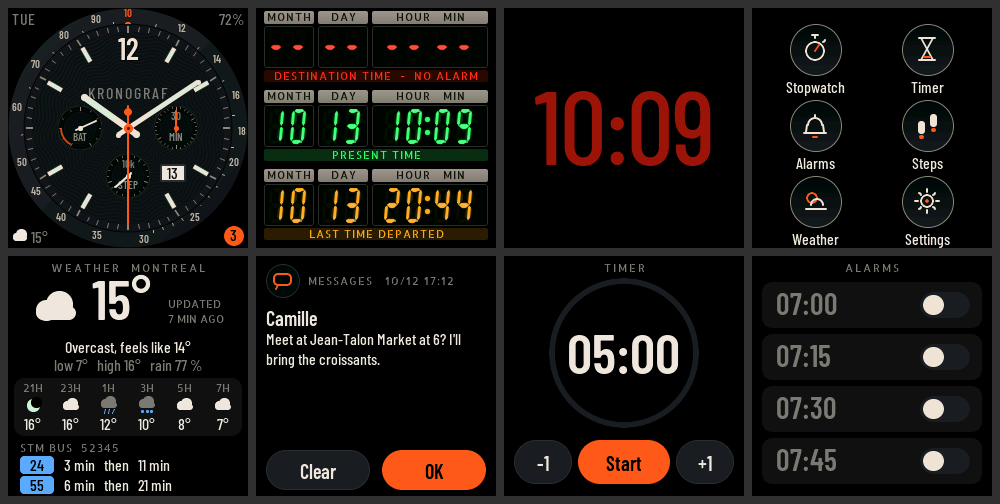
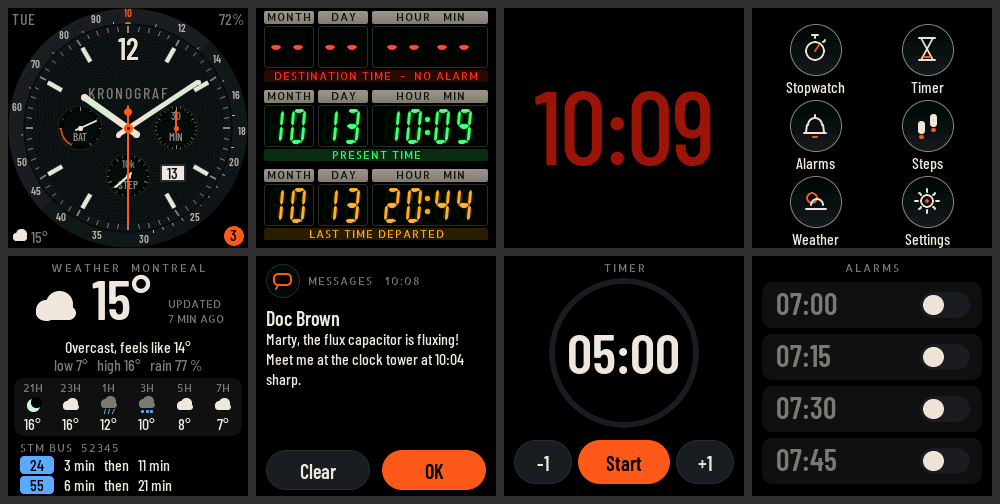
README: wrist illustration, and a Back to the Future message in the demo
The simulator's demo notifications are dated a few minutes before the simulated time,
and the incoming-call screenshot now shows a call. tools/render_wrist.py draws the wrist
illustration around a real simulator screenshot.

Claude-Session: https://claude.ai/code/session_01BHBYox5ENEx9Hdd9LiBx8a

Changed region(s): [[0.248, 0.625, 0.465, 0.7738], [0.403, 0.5357, 0.465, 0.5655]]

diff --git a/tools/render_wrist.py b/tools/render_wrist.py
@@ -1,0 +1,165 @@
+#!/usr/bin/env python3
+"""Illustration of the watch on a wrist, with a real simulator screenshot as the display.
+
+  python3 tools/render_wrist.py docs/screens/sim/t5-aviator-badge.png docs/screens/kronograf-wrist.png
+
+Needs Pillow. The arm, strap and case are drawn procedurally; only the screen is real.
+"""
+import math
+import sys
+
+from PIL import Image, ImageChops, ImageDraw, ImageFilter
+
+W, H = 1600, 1000
+SS = 2  # supersampling for smooth edges
+
+
+def lerp(a, b, t):
+    return tuple(int(a[i] + (b[i] - a[i]) * t) for i in range(len(a)))
+
+
+def vgradient(size, top, bottom):
+    w, h = size
+    g = Image.new("RGB", (1, h))
+    for y in range(h):
+        g.putpixel((0, y), lerp(top, bottom, y / max(1, h - 1)))
+    return g.resize((w, h))
+
+
+def rounded_mask(size, radius):
+    m = Image.new("L", size, 0)
+    ImageDraw.Draw(m).rounded_rectangle([0, 0, size[0] - 1, size[1] - 1], radius, fill=255)
+    return m
+
+
+def background():
+    bg = Image.new("RGB", (W, H))
+    cx, cy = W * 0.55, H * 0.42
+    px = bg.load()
+    for y in range(H):
+        for x in range(0, W, 4):
+            d = math.hypot((x - cx) / W, (y - cy) / H)
+            c = lerp((44, 56, 72), (10, 13, 18), min(1, d * 1.6))
+            for k in range(4):
+                if x + k < W:
+                    px[x + k, y] = c
+    return bg
+
+
+def arm_layer():
+    """Forearm crossing the frame, skin shaded from a top highlight to a darker underside."""
+    w, h = W * SS, H * SS
+    top, bottom = int(h * 0.12), int(h * 0.94)
+    mask = Image.new("L", (w, h), 0)
+    d = ImageDraw.Draw(mask)
+    # Slight taper towards the hand (right side) and rounded ends off-frame.
+    d.polygon([(-200, top - 40), (w + 200, top + 60), (w + 200, bottom - 30), (-200, bottom + 30)], fill=255)
+    mask = mask.filter(ImageFilter.GaussianBlur(6 * SS))
+    # Cylindrical shading across the forearm: darker edges, a highlight in the upper third.
+    stops = [(0.0, (128, 84, 64)), (0.22, (234, 192, 164)), (0.55, (204, 152, 122)), (1.0, (92, 58, 44))]
+    col = Image.new("RGB", (1, h))
+    a, b = top + 30, bottom
+    for y in range(h):
+        t = min(1, max(0, (y - a) / (b - a)))
+        for (t0, c0), (t1, c1) in zip(stops, stops[1:]):
+            if t <= t1:
+                col.putpixel((0, y), lerp(c0, c1, (t - t0) / (t1 - t0)))
+                break
+    skin = col.resize((w, h))
+    return skin, mask, (top, bottom)
+
+
+def strap_layer(arm_mask, span, cx):
+    """Strap wrapped around the forearm: clipped to it, shaded darker where it turns away."""
+    w, h = arm_mask.size
+    top, bottom = span
+    sw = 330 * SS
+    strap = Image.new("RGB", (w, h), (0, 0, 0))
+    col = Image.new("RGB", (1, h))
+    for y in range(h):
+        t = min(1, max(0, (y - top) / (bottom - top)))
+        edge = min(t, 1 - t) * 2  # 0 at the edges of the arm, 1 in the middle
+        col.putpixel((0, y), lerp((8, 8, 10), (40, 42, 47), min(1, edge * 2.2)))
+    strap.paste(col.resize((sw, h)), (cx - sw // 2, 0))
+    m = Image.new("L", (w, h), 0)
+    ImageDraw.Draw(m).rectangle([cx - sw // 2, 0, cx + sw // 2, h], fill=255)
+    m = ImageChops.multiply(m, arm_mask.filter(ImageFilter.MaxFilter(9)))
+    d = ImageDraw.Draw(strap)
+    for k in range(-12, 13):  # stitched texture lines
+        y = (top + bottom) // 2 + k * 36 * SS
+        d.line([(cx - sw // 2 + 28 * SS, y), (cx + sw // 2 - 28 * SS, y)], fill=(52, 54, 60), width=2 * SS)
+    return strap, m
+
+
+def watch_layer(screen):
+    """T-Watch 2020: brushed case, black front, display, crown and strap."""
+    cw, ch = 520 * SS, 560 * SS
+    pad = 260 * SS
+    lw, lh = cw + 2 * pad, ch + 2 * pad
+    layer = Image.new("RGBA", (lw, lh), (0, 0, 0, 0))
+    ox, oy = pad, pad
+
+    sd = ImageDraw.Draw(layer)
+
+    # Crown and button on the right side.
+    sd.rounded_rectangle([ox + cw - 20 * SS, oy + 150 * SS, ox + cw + 34 * SS, oy + 230 * SS], 14 * SS, fill=(150, 158, 170, 255))
+    for k in range(6):
+        y = oy + (160 + k * 12) * SS
+        sd.line([(ox + cw + 10 * SS, y), (ox + cw + 32 * SS, y)], fill=(95, 102, 112, 255), width=2 * SS)
+
+    # Case: metallic gradient with a bevel.
+    case = vgradient((cw, ch), (188, 196, 208), (70, 78, 90)).convert("RGBA")
+    layer.paste(case, (ox, oy), rounded_mask((cw, ch), 110 * SS))
+    bevel = vgradient((cw - 16 * SS, ch - 16 * SS), (120, 128, 140), (205, 212, 222)).convert("RGBA")
+    layer.paste(bevel, (ox + 8 * SS, oy + 8 * SS), rounded_mask((cw - 16 * SS, ch - 16 * SS), 102 * SS))
+
+    # Black glass front.
+    gw, gh = cw - 44 * SS, ch - 44 * SS
+    glass = Image.new("RGBA", (gw, gh), (6, 7, 9, 255))
+    layer.paste(glass, (ox + 22 * SS, oy + 22 * SS), rounded_mask((gw, gh), 88 * SS))
+
+    # Display: the real screenshot, slightly above centre as on the T-Watch.
+    side = 400 * SS
+    disp = screen.convert("RGB").resize((side, side), Image.LANCZOS)
+    dx, dy = ox + (cw - side) // 2, oy + 54 * SS
+    layer.paste(disp, (dx, dy))
+
+    # Glass reflection: a soft diagonal sheen.
+    sheen = Image.new("L", (lw, lh), 0)
+    ImageDraw.Draw(sheen).polygon(
+        [(ox + 22 * SS, oy + 22 * SS), (ox + cw * 0.62, oy + 22 * SS), (ox + 22 * SS, oy + ch * 0.55)], fill=34)
+    sheen = sheen.filter(ImageFilter.GaussianBlur(30 * SS))
+    glass_mask = Image.new("L", (lw, lh), 0)
+    glass_mask.paste(rounded_mask((gw, gh), 88 * SS), (ox + 22 * SS, oy + 22 * SS))
+    sheen = ImageChops.multiply(sheen, glass_mask)
+    white = Image.new("RGBA", (lw, lh), (255, 255, 255, 255))
+    layer = Image.composite(white, layer, sheen)
+    return layer
+
+
+def main():
+    screen = Image.open(sys.argv[1])
+    out = sys.argv[2]
+    bg = background().resize((W * SS, H * SS))
+    skin, arm_mask, span = arm_layer()
+
+    # Arm shadow on the background.
+    shadow = arm_mask.filter(ImageFilter.GaussianBlur(40 * SS)).point(lambda v: v * 0.6)
+    bg = Image.composite(Image.new("RGB", bg.size, (0, 0, 0)), bg, ImageChops.offset(shadow, 0, 30 * SS))
+    bg = Image.composite(skin, bg, arm_mask)
+    strap, strap_mask = strap_layer(arm_mask, span, int(W * SS * 0.52))
+    bg = Image.composite(strap, bg, strap_mask)
+
+    watch = watch_layer(screen)
+    # Contact shadow of the watch on the skin.
+    wshadow = watch.split()[3].filter(ImageFilter.GaussianBlur(26 * SS)).point(lambda v: v * 0.55)
+    px, py = int(W * SS * 0.52 - watch.width / 2), int(H * SS * 0.50 - watch.height / 2)
+    bg.paste((0, 0, 0), (px + 18 * SS, py + 26 * SS), wshadow)
+    bg.paste(watch, (px, py), watch)
+
+    bg.resize((W, H), Image.LANCZOS).save(out, quality=88, optimize=True)
+    print(f"illustration {out} ({W}×{H})")
+
+
+if __name__ == "__main__":
+    main()

diff --git a/src/hal/sim/hal_sim.c b/src/hal/sim/hal_sim.c
@@ -261,7 +261,7 @@ void hal_ble_enable(bool on) { s_ble_on = on; }
 void hal_ble_forget(void) {}
 
 static const kg_notif_t DEMO_NOTIFS[] = {
-    {101, KG_CAT_SOCIAL, "com.apple.MobileSMS", "Camille", "Meet at Jean-Talon Market at 6? I'll bring the croissants.", "20261012T171205"},
+    {101, KG_CAT_SOCIAL, "com.apple.MobileSMS", "Doc Brown", "Marty, the flux capacitor is fluxing! Meet me at the clock tower at 10:04 sharp.", "20261012T171205"},
     {102, KG_CAT_EMAIL, "com.apple.mobilemail", "STM — Service info", "Route 24: detour via Sherbrooke Street until further notice.", "20261012T164010"},
     {103, KG_CAT_SCHEDULE, "com.apple.mobilecal", "Dentist", "Tomorrow at 9:30 · 1250 Sainte-Catherine St.", "20261012T150000"},
     {104, KG_CAT_CALL, "com.apple.mobilephone", "Mom", "Incoming call", "20261012T171500"},
@@ -282,7 +282,21 @@ bool hal_notif_get(int i, kg_notif_t *out)
         if (s_dismissed & 1u << k) continue;
         if (i-- == 0) {
             *out = DEMO_NOTIFS[k];
-            if (k == 0 && getenv("KG_NOTIF_CAT")) out->category = (uint8_t)env_int("KG_NOTIF_CAT", 4);
+            /* Received today, a few minutes before the (simulated) current time. */
+            static const int MIN_AGO[] = {1, 25, 70, 0};
+            struct tm t;
+            hal_now(&t, NULL);
+            int m = t.tm_hour * 60 + t.tm_min - MIN_AGO[k];
+            if (m < 0) m = 0;
+            snprintf(out->date, sizeof out->date, "%04d%02d%02dT%02d%02d00", t.tm_year + 1900, t.tm_mon + 1, t.tm_mday,
+                     m / 60, m % 60);
+            if (k == 0 && env_int("KG_NOTIF_CAT", -1) == KG_CAT_CALL) { /* the incoming call comes first */
+                *out = DEMO_NOTIFS[3];
+                snprintf(out->date, sizeof out->date, "%04d%02d%02dT%02d%02d00", t.tm_year + 1900, t.tm_mon + 1,
+                         t.tm_mday, t.tm_hour, t.tm_min);
+            } else if (k == 0 && getenv("KG_NOTIF_CAT")) {
+                out->category = (uint8_t)env_int("KG_NOTIF_CAT", 4);
+            }
             return true;
         }
     }

diff --git a/README.md b/README.md
@@ -5,6 +5,9 @@
 
 **A from-scratch firmware for the LilyGO T-Watch 2020**: an aviation chronograph face, "time circuits" 7-segment displays straight out of *Back to the Future*, Montréal weather and real-time bus departures, and iPhone notifications. ESP32, LVGL 8.3, and a macOS simulator that builds exactly the same interface.
 
+![Kronograf on a wrist (illustration; the display is a real simulator screenshot)](docs/screens/kronograf-wrist.jpg)
+<sub>Illustration — the display is a real screenshot of the aviator face.</sub>
+
 <p align="center">
   <img src="docs/screens/kronograf-demo.gif" width="360" alt="Demo: aviator face, time circuits with the lightning easter egg, night face, launcher, weather and an iPhone notification">
 </p>
@@ -106,7 +109,7 @@ src/hal/device/  T-Watch: display (esp_lcd, DMA), AXP202, BMA423, network, BLE, 
 src/hal/sim/     simulated implementation
 sim/             SDL2 harness, PNG screenshots, scripted demo recording
 tests/           parser tests (cc -I src tests/test_data.c src/data/kg_*.c)
-tools/           backup and block flashing, console, fonts, contact sheets, demo GIF
+tools/           backup and block flashing, console, fonts, contact sheets, demo GIF, wrist illustration
 ```
 
 A few structural choices, detailed in [`DECISIONS.md`](DECISIONS.md):
